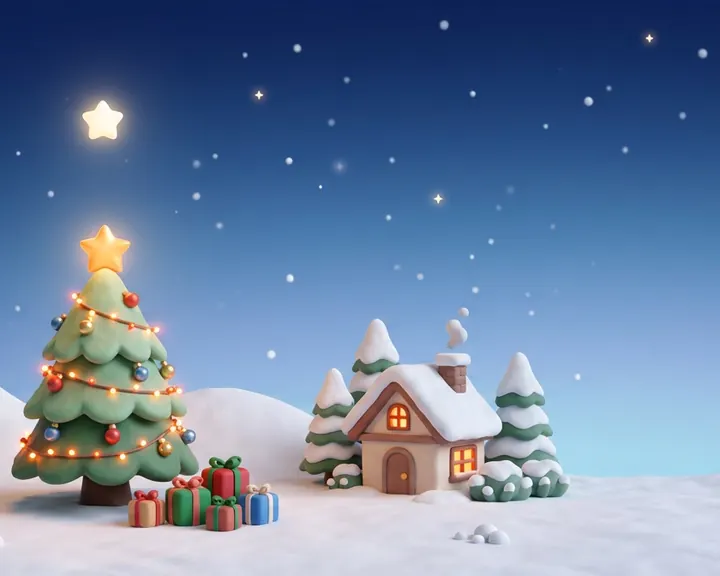
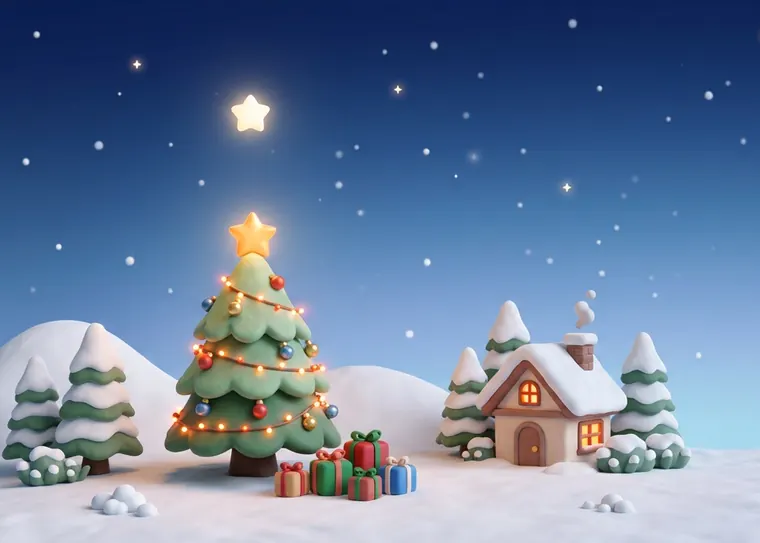
Home hero: painted skies fit every width (phone crop + 5:1 wide cut anchored left)
The band runs from ~1.4:1 on a phone to ~6.4:1 at 2560px. Phones get a
1.4:1 crop around the scene; 768 and up a 5:1 cut — the painting with its
edges continued (mirrored hills, a clean gradient sky) and its centrepiece
a quarter in from the left, so it stays clear of the headline and ask box.
The image is fetched with high priority.

diff --git a/src/components/home/SkyBackdrop.tsx b/src/components/home/SkyBackdrop.tsx
@@ -3,20 +3,29 @@
 // left as open sky for the headline and the ask box. The seasonal sky
 // components lay their animation — bats, snow, fireworks — over it.
 //
-// A picture rather than a drawing because the drawn skylines read flat next
-// to a 3D mascot. Still small: ~45 KB, and a ~20 KB crop for phones, where
-// the band is narrow and only the scene's left-of-centre would show anyway.
-// Not under /mascot/, so the service worker does not keep an old copy.
+// The band's shape runs from ~1.4:1 on a phone to ~6.4:1 on a 2560px screen,
+// so there are two cuts (build_sizes.py), each cropped by object-cover:
+//   phones (<768)  <name>-sm.webp    a 1.4:1 crop around the scene
+//   768 and up     <name>-wide.webp  5:1 — the painting with its edges
+//                                    continued outwards, the scene a quarter
+//                                    in from the left. Anchored at 28% across,
+//                                    so on a tablet the crop eats the empty
+//                                    right side, not the scene, and the scene
+//                                    stays left of the headline and ask box.
+// ~20–70 KB each, one per visit. Not under /mascot/, so the service worker
+// does not keep an old copy.
 
-export default function SkyBackdrop({ name, position = "50% 62%" }: { name: string; position?: string }) {
+export default function SkyBackdrop({ name, position = "28% 45%" }: { name: string; position?: string }) {
   return (
     <picture className="absolute inset-0 -z-20 block">
       <source media="(max-width: 767px)" srcSet={`/hero-sky/${name}-sm.webp`} />
       <img
-        src={`/hero-sky/${name}.webp`}
+        src={`/hero-sky/${name}-wide.webp`}
         alt=""
         aria-hidden="true"
-        decoding="async"
+        // the band is the top of the home page: fetch it first, so the
+        // painting arrives with the page rather than seconds after it
+        fetchPriority="high"
         className="h-full w-full object-cover"
         style={{ objectPosition: position }}
       />

diff --git a/src/components/home/HalloweenSky.tsx b/src/components/home/HalloweenSky.tsx
@@ -102,7 +102,7 @@ function BatShape({ bat }: { bat: Bat }) {
 export default function HalloweenSky() {
   return (
     <span aria-hidden="true" className="pointer-events-none absolute inset-0 -z-20 overflow-hidden">
-      <SkyBackdrop name="halloween" position="50% 38%" />
+      <SkyBackdrop name="halloween" position="28% 35%" />
       {ROWS.map((row) => (
         <span
           key={row.seconds}
